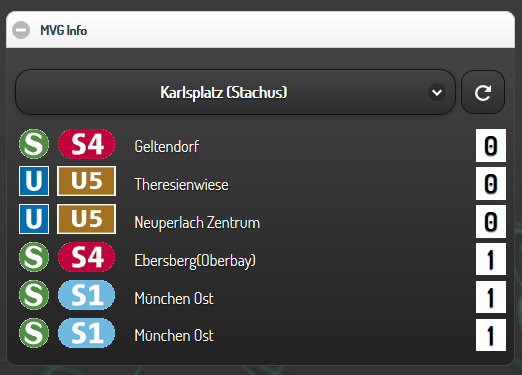
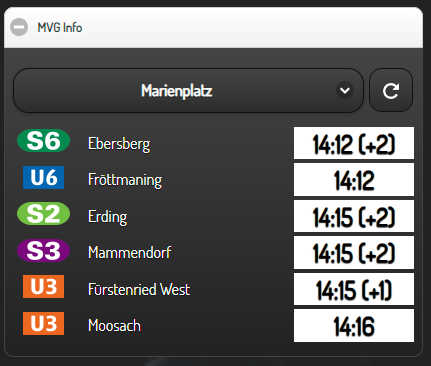
MVG_Live: updated to new Pypi library "mvg", as MVG_Live is not maintained anymore.

diff --git a/mvg_live/__init__.py b/mvg_live/__init__.py
@@ -22,20 +22,18 @@
 #########################################################################
 
 import logging
-import MVGLive
-
+from mvg import MvgApi
 from lib.model.smartplugin import SmartPlugin
 
 class MVG_Live(SmartPlugin):
     ALLOW_MULTIINSTANCE = False
-    PLUGIN_VERSION = "1.5.1"
+    PLUGIN_VERSION = "1.6.0"
 
     def __init__(self, sh, *args, **kwargs):
         """
         Initializes the plugin
         """
         self.logger = logging.getLogger(__name__)
-        self._mvg_live = MVGLive.MVGLive()
 
     def run(self):
         self.alive = True
@@ -43,5 +41,15 @@ class MVG_Live(SmartPlugin):
     def stop(self):
         self.alive = False
 
-    def get_station_departures(self, station, timeoffset=0, entries=10, ubahn=True, tram=True, bus=True, sbahn=True):
-        return self._mvg_live.getlivedata(station, timeoffset, entries, ubahn, tram, bus, sbahn)
+    def get_station(self, station):
+        mvg_station = MvgApi.station(station)
+        if mvg_station:
+            return mvg_station
+
+    def get_station_departures(self, station):
+        mvg_station = self.get_station(station)
+        if mvg_station:
+            mvgapi = MvgApi(mvg_station['id'])
+            return mvgapi.departures()
+        else:
+            logger.error("Station %s does not exist."%station)

diff --git a/mvg_live/README.md b/mvg_live/README.md
@@ -4,12 +4,13 @@
 This plugin requires lib PyMVGLive. You can install this lib with:
 
 ```
-sudo pip3 install PyMVGLive --upgrade
+sudo pip3 install mvg --upgrade
 ```
 
-This plugin provides functionality to query the data of www.mvg-live.de via the python package PyMVGLive.
+This plugin provides functionality to query the data of www.mvv-muenchen.de via the python package "mvg" (pip install mvg).
+
 Take care to not run it too often. My example below is manually triggered by a select action in the
-smartVISU 2.9 select widget or a refresh button.
+smartVISU 2.9 select widget including a refresh button.
 
 Forum thread to the plugin: https://knx-user-forum.de/forum/supportforen/smarthome-py/1108867-neues-plugin-mvg_live
 
@@ -66,27 +67,40 @@ MVGWatch:
 
 ### mvg.py
 
+For the images I am using https://commons.wikimedia.org/wiki/M%C3%BCnchen_U-Bahn?uselang=de and https://commons.wikimedia.org/wiki/Category:Line_numbers_of_Munich_S-Bahn
+and put them in the dropins folder of smartVISU (/dropins/icons/myglive/Muenchen_%s.svg.png). %s is e.g. S8 or U3 and inputted from the departure array.
 ```html
-results = sh.mvg_live.get_station_departures(sh.travel_info.mvg_station.search(), entries=15, bus=False, tram=False)
+import logging
+from datetime import datetime
+from lib.shtime import Shtime
+logger = logging.getLogger('mvg_info logics')
+now = Shtime.get_instance().now()
+
+results = sh.mvg_live.get_station_departures(sh.general.travel_info.mvg_station.search())
+logger.error(results)
 html_string = '<table>'
 i = 1
-for result in results:
 
-    dir_info = ''
-    line_string = '<tr><td style="width: 10px;"></td>'
-    line_string += '<td><img src="%s" alt="%s"/><td><td style="margin-left: 5px;"><img src="%s" alt="%s"/></td>' % (
-    result['productsymbolurl'], result['product'], result['linesymbolurl'], result['linename'])
-    line_string += '<td style="text-align: left; padding-left: 15px; width: 100%;">'
-    line_string += '%s </td>' % result['destination']
-    line_string += '<td style="color: #000; font-weight: bold; font-size: 25px;">'
-    line_string += '<div style="background-color: #fff; width: 30px; ">%i</div></td></tr>' % result['time']
-    html_string += line_string
-    i = i + 1
-    if i == 7:
-        break
+for result in results:
+    if result['type'] in ["U-Bahn","S-Bahn"]:
+        result['linesymbolurl'] = 'https://<sv_dyndns_url>/smartVISU/dropins/icons/mvglive/Muenchen_%s.svg.png'%result['line']
+        dir_info = ''
+        line_string = '<tr><td style="width: 10px;"></td>'
+        line_string += '<td><img src="%s" alt="%s"/></td>' % (result['linesymbolurl'],result['linesymbolurl']) #<td><td style="margin-left: 5px;"><img src="%s" alt="%s"/>
+        line_string += '<td style="text-align: left; padding-left: 15px; width:60%;">'
+        line_string += '%s </td>' % result['destination']
+        line_string += '<td style="color: #000; font-weight: bold; font-size: 25px;">'
+        calculated_delay = ""
+        if int(datetime.fromtimestamp(result['time']-result['planned']).strftime("%M")) > 0:
+            calculated_delay = "(+%i)"%int(datetime.fromtimestamp(result['time']-result['planned']).strftime("%M"))
+        line_string += '<div style="background-color: #fff; width: 120px; ">%s %s</div></td></tr>' % (datetime.fromtimestamp(result['time']).strftime("%H:%M"),calculated_delay) #calculated_delay)
+        html_string += line_string
+        i = i + 1
+        if i == 7:
+            break
 
 html_string += '</table>'
-sh.travel_info.mvg_station.search.result(html_string)
+sh.general.travel_info.mvg_station.search.result(html_string)
 ```
 
 ### smartVISU integration (Requires smartVISU 2.9, as select widget is used)
